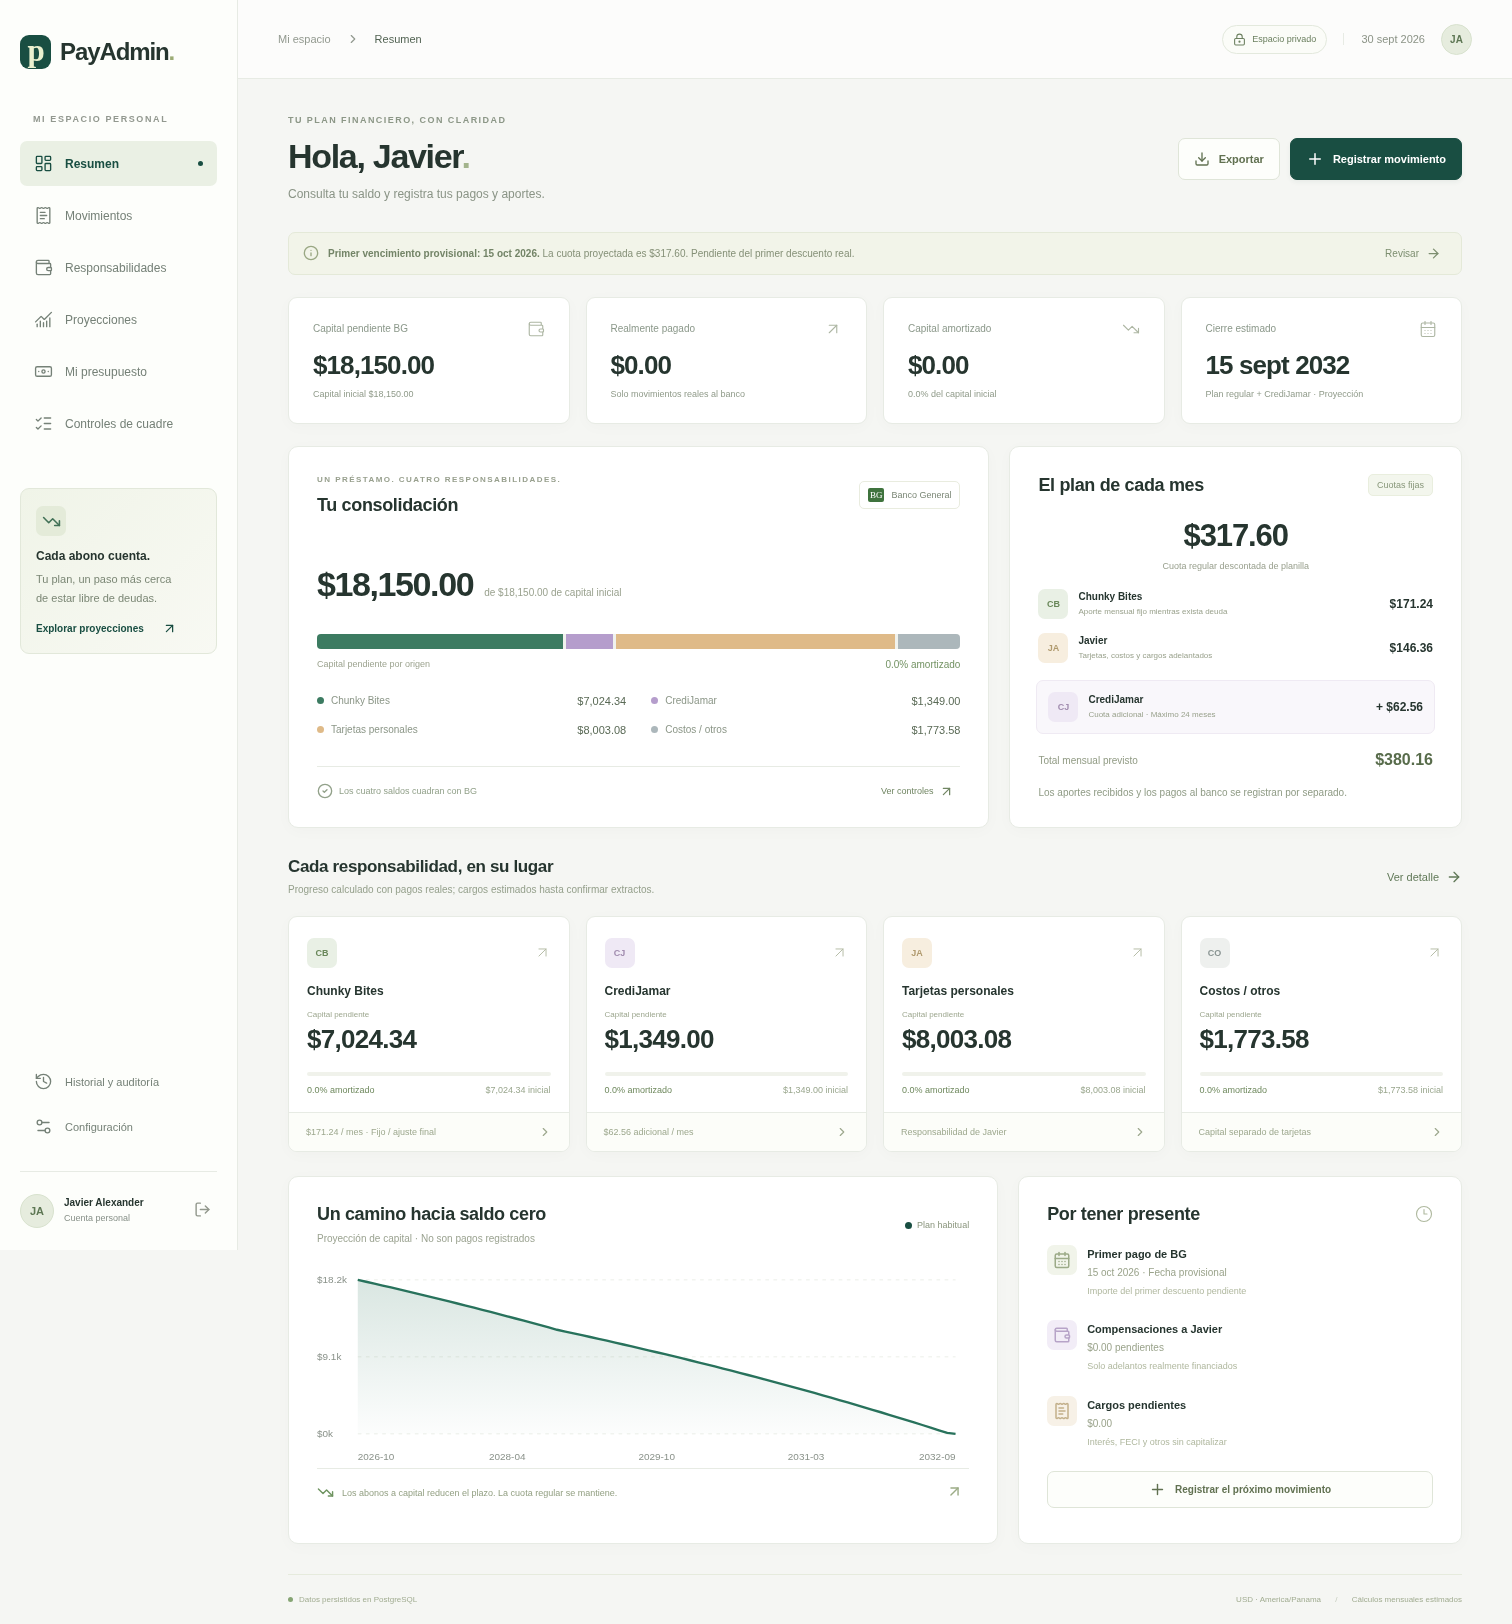
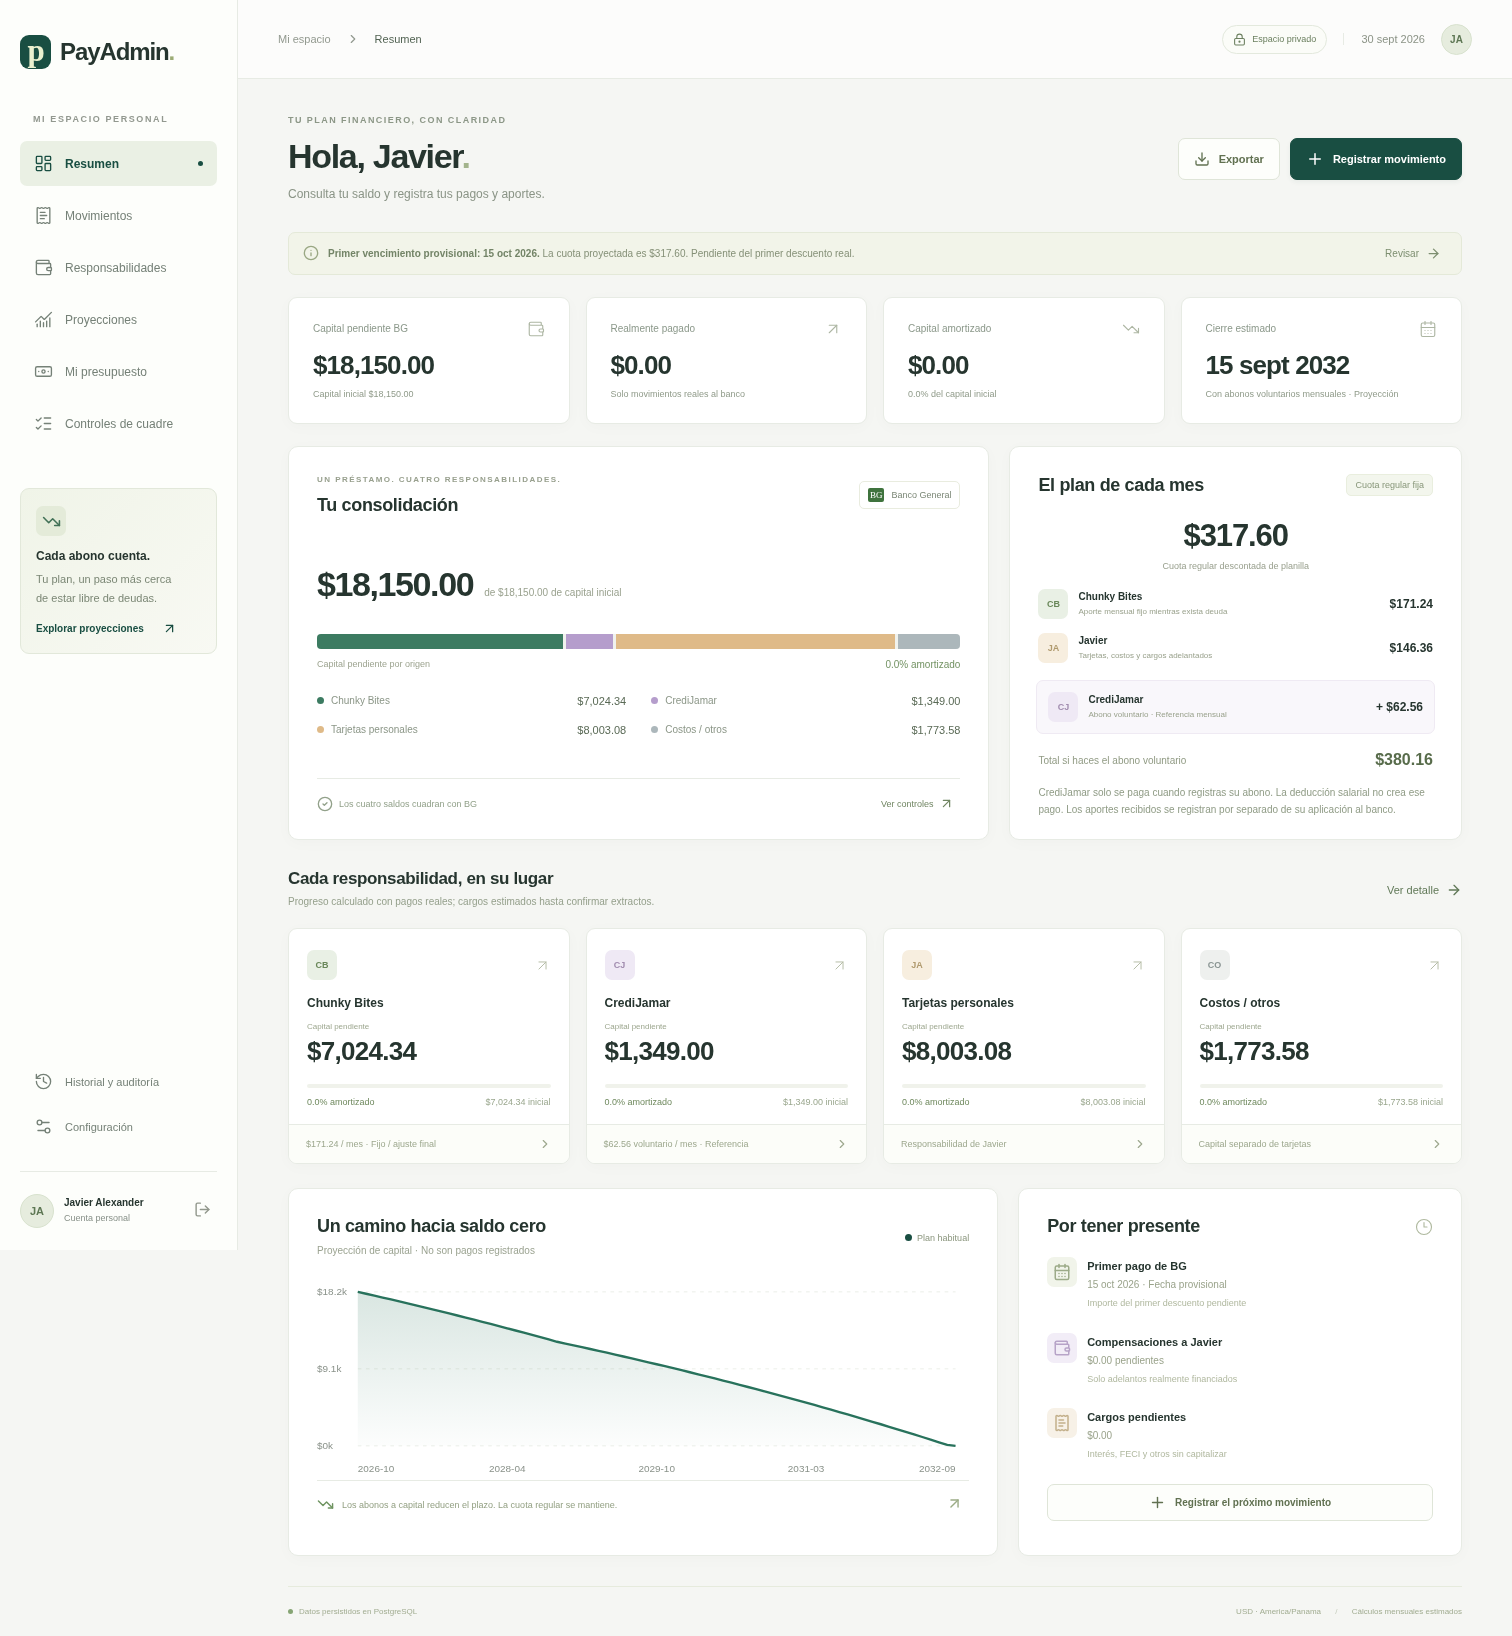
fix: clarify voluntary CrediJamar payments and projection assumptions

diff --git a/src/components/dashboard.tsx b/src/components/dashboard.tsx
@@ -82,7 +82,7 @@ function expectedCredi(d: Snapshot) {
 }
 export const typeNames: Record<string, string> = {
   REGULAR: "Pago regular BG",
-  CREDI: "Cuota adicional CrediJamar",
+  CREDI: "Abono voluntario CrediJamar",
   EXTRA_CREDI: "Extra a capital CrediJamar",
   EXTRA_CHUNKY: "Extra a capital Chunky",
   EXTRA_CARDS: "Extra a tarjetas",
@@ -439,7 +439,7 @@ function Overview({
               ? displayDate(d.current.closeDate)
               : "Revisar plan"
           }
-          note="Plan regular + CrediJamar · Proyección"
+          note="Con abonos voluntarios mensuales · Proyección"
           icon={CalendarDays}
         />
       </div>
@@ -499,7 +499,7 @@ function Overview({
         <section className="panel payment-panel">
           <div className="panel-heading">
             <h2>El plan de cada mes</h2>
-            <span className="tag">Cuotas fijas</span>
+            <span className="tag">Cuota regular fija</span>
           </div>
           <div className="monthly-amount">
             <strong>{usd(p.regular)}</strong>
@@ -525,17 +525,18 @@ function Overview({
             <span className="source-icon credi">CJ</span>
             <div>
               <strong>CrediJamar</strong>
-              <small>Cuota adicional · Máximo 24 meses</small>
+              <small>Abono voluntario · Referencia mensual</small>
             </div>
             <strong>+ {usd(expectedCredi(d))}</strong>
           </div>
           <div className="payment-total">
-            <span>Total mensual previsto</span>
+            <span>Total si haces el abono voluntario</span>
             <strong>{usd(p.regular + expectedCredi(d))}</strong>
           </div>
           <p className="fine-print">
-            Los aportes recibidos y los pagos al banco se registran por
-            separado.
+            CrediJamar solo se paga cuando registras su abono. La deducción
+            salarial no crea ese pago. Los aportes recibidos se registran por
+            separado de su aplicación al banco.
           </p>
         </section>
       </div>
@@ -663,7 +664,7 @@ function SourceCard({
         {s === "chunky"
           ? `${usd(expectedChunky(d))} / mes · Fijo / ajuste final`
           : s === "credi"
-            ? `${usd(expectedCredi(d))} adicional / mes`
+            ? `${usd(expectedCredi(d))} voluntario / mes · Referencia`
             : s === "cards"
               ? "Responsabilidad de Javier"
               : "Capital separado de tarjetas"}
@@ -1318,12 +1319,12 @@ function Projections({ d }: { d: Snapshot }) {
           {
             title: "Plan habitual",
             f: d.habitual,
-            note: "Regular + CrediJamar, hasta su liquidación",
+            note: "Si haces abonos voluntarios mensuales a CrediJamar",
           },
           {
             title: "Trayectoria actual",
             f: d.current,
-            note: "Pagos reales + plan futuro · Estimación",
+            note: "Pagos registrados + abonos voluntarios futuros supuestos",
           },
         ].map((x, i) => (
           <section
@@ -1411,11 +1412,12 @@ function Projections({ d }: { d: Snapshot }) {
         <p className="fine-print">
           Referencia: mismos pagos regulares observados, completados con cuotas
           futuras. Se comparan trayectorias completas: solo regular, regular +
-          CrediJamar y pagos reales + plan. El ahorro incluye cargos futuros
-          estimados y no suma el capital abonado. La diferencia inicial entre 84
-          y {d.regular.payments} pagos no es ahorro por abonos. Con extractos,
-          sus devengos confirmados se mantienen iguales en el historial
-          contrafactual.
+          abonos voluntarios CrediJamar y pagos reales + plan. Los abonos
+          futuros son una hipótesis; no se registran pagos automáticamente. El
+          ahorro incluye cargos futuros estimados y no suma el capital abonado.
+          La diferencia inicial entre 84 y {d.regular.payments} pagos no es
+          ahorro por abonos. Con extractos, sus devengos confirmados se
+          mantienen iguales en el historial contrafactual.
         </p>
       </section>
       <div className="bottom-grid section-gap">
@@ -1823,8 +1825,10 @@ function Budget({ d, open }: { d: Snapshot; open: () => void }) {
           <div className="composition-line" key={x.source}>
             <span>{names[x.source]}</span>
             <span>
-              Esperado {usd(x.expected)} · Recibido {usd(x.received)} ·
-              Pendiente {usd(x.pending)}
+              {x.source === "credi" ? "Referencia voluntaria" : "Esperado"}{" "}
+              {usd(x.expected)} · Recibido {usd(x.received)} ·
+              {x.source === "credi" ? "Diferencia con referencia" : "Pendiente"}{" "}
+              {usd(x.pending)}
             </span>
           </div>
         ))}
@@ -1832,6 +1836,8 @@ function Budget({ d, open }: { d: Snapshot; open: () => void }) {
           Aportes por período de responsabilidad; caja por fecha efectiva de
           recepción. Los importes recibidos no prueban su aplicación al banco.
           Las responsabilidades configuradas no crean movimientos reales.
+          CrediJamar es voluntario; la referencia mensual no es un pago
+          realizado.
         </p>
       </section>
     </>

diff --git a/src/components/movement-form.tsx b/src/components/movement-form.tsx
@@ -275,7 +275,7 @@ export default function MovementForm({
                     {type === "REGULAR"
                       ? "Pago real descontado de planilla. Puede ser parcial o quincenal; no se marca una cuota completa como pagada automáticamente."
                       : type === "CREDI"
-                        ? "Aplicación adicional al capital legal BG. Primero compensa únicamente cargos CrediJamar ya financiados por Javier; el resto reduce capital CrediJamar."
+                        ? "Abono voluntario registrado por ti, con fecha e importe reales. No se crea al registrar la deducción salarial. Primero compensa cargos CrediJamar ya financiados por Javier; el resto reduce capital CrediJamar."
                         : type === "NO_PAYMENT"
                           ? "Confirmas que no hubo pagos en este período. Un mes sin registros sigue siendo desconocido."
                           : "Reduce exclusivamente el capital del destino elegido. El exceso queda sin aplicar; no se reasigna."}

diff --git a/src/components/settings-form.tsx b/src/components/settings-form.tsx
@@ -222,7 +222,7 @@ export default function SettingsForm({
               />
             </label>
             <label>
-              Cuota adicional CrediJamar (USD)
+              Referencia mensual voluntaria CrediJamar (USD)
               <input
                 name="credi"
                 type="number"

diff --git a/README.md b/README.md
@@ -97,7 +97,7 @@ La aplicación incluye manifest, iconos y service worker para agregarla a la pan
 4. Se calculan los devengos con decimal de 40 dígitos y se redondean a centavos (mitades hacia arriba). La atribución a las cuatro bolsas distribuye centavos por mayores residuos, con desempate estable Chunky, CrediJamar, tarjetas y costos. Se conserva exactamente el importe legal. La referencia aislada CrediJamar mantiene precisión completa, por eso puede diferir algunos centavos de su calendario atribuido dentro de BG.
 5. Cuota regular inicial $317.60: Chunky $171.24, Javier $146.36. No es una distribución proporcional de la cuota. La parte de capital regular de Javier se distribuye entre tarjetas y costos según sus saldos. Un pago parcial asigna una parte equivalente del flujo fijo; el devengo mensual ocurre una vez aunque haya dos descuentos. Se informan los cargos y faltantes efectivos.
 6. Convención de aplicación, pendiente de confirmar contractualmente: interés pendiente y actual, FECI, otros cargos explícitos, y capital. Cargos no cubiertos quedan pendientes y no se capitalizan. Si la parte efectiva de un pago parcial no cubre cargos, no se registra capital ficticio ni cuota completa pagada.
-7. CrediJamar $62.56 es **adicional**. Sus cargos pagados realmente con la cuota regular crean un adelanto a Javier. Su cuota bancaria adicional reduce capital legal: primero reduce capital personal por la compensación de ese adelanto, luego capital CrediJamar. La compensación se guarda explícitamente y no paga intereses bancarios dos veces. Si la cuota llega antes de que los cargos hayan sido financiados, solo compensa adelantos existentes; el resto reduce capital CrediJamar y sus cargos quedan pendientes con advertencia. Registrar un aporte recibido sin aplicación no cambia ninguno de esos saldos.
+7. Todos los pagos CrediJamar son **voluntarios y se aplican únicamente cuando el propietario los registra**, con su fecha e importe reales. Registrar la deducción salarial no crea un pago CrediJamar ni reduce su capital. $62.56 es una referencia mensual para el escenario de proyección, no una deducción automática ni un pago real. Sus cargos pagados realmente con la cuota regular crean un adelanto a Javier. Un movimiento **Abono voluntario CrediJamar** reduce capital legal: primero reduce capital personal por la compensación de ese adelanto, luego capital CrediJamar. La compensación se guarda explícitamente y no paga intereses bancarios dos veces. Si el abono llega antes de que los cargos hayan sido financiados, solo compensa adelantos existentes; el resto reduce capital CrediJamar y sus cargos quedan pendientes con advertencia. Un **Extra a capital CrediJamar** es una aplicación directa al capital de esa fuente, sin compensación. Registrar un aporte recibido sin aplicación no cambia ninguno de esos saldos.
 8. Extras dirigidos reducen únicamente su fuente. Nunca exceden su capital. El exceso queda explicado como dinero sin aplicar; corrige/divide el movimiento con destinos explícitos o documenta su devolución. No se reasigna automáticamente.
 9. Chunky tiene límite 02/06/2031, sin cinco años adicionales desde la consolidación. CrediJamar tiene 24 meses desde el inicio. La proyección ajusta el último pago a la deuda; en CrediJamar el ajuste automático al mes 24 se limita a cinco centavos sobre la cuota propuesta, para no ocultar impagos mediante un pago final grande. Cualquier faltante mayor dispara el error del límite. Se muestra el faltante y un extra dirigido estimado por búsqueda numérica; cargos/adelantos pendientes siguen separados. Un pago posterior al límite no borra el incumplimiento histórico.
 10. Comparación aislada CrediJamar: cuota exacta $62.56128017, total $1,501.47, cargos $152.47, última cuota aislada $62.59. Original aproximado $2,328.00, costo financiero implícito estimado $979.00; diferencia estimada $826.53, exclusivamente sobre $1,349 a 24 meses.
